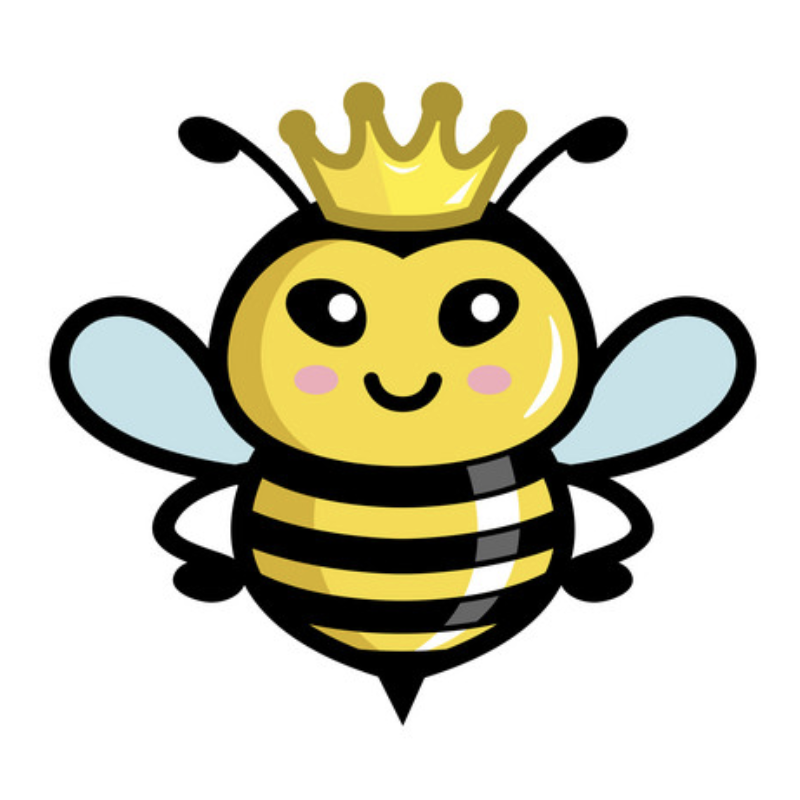
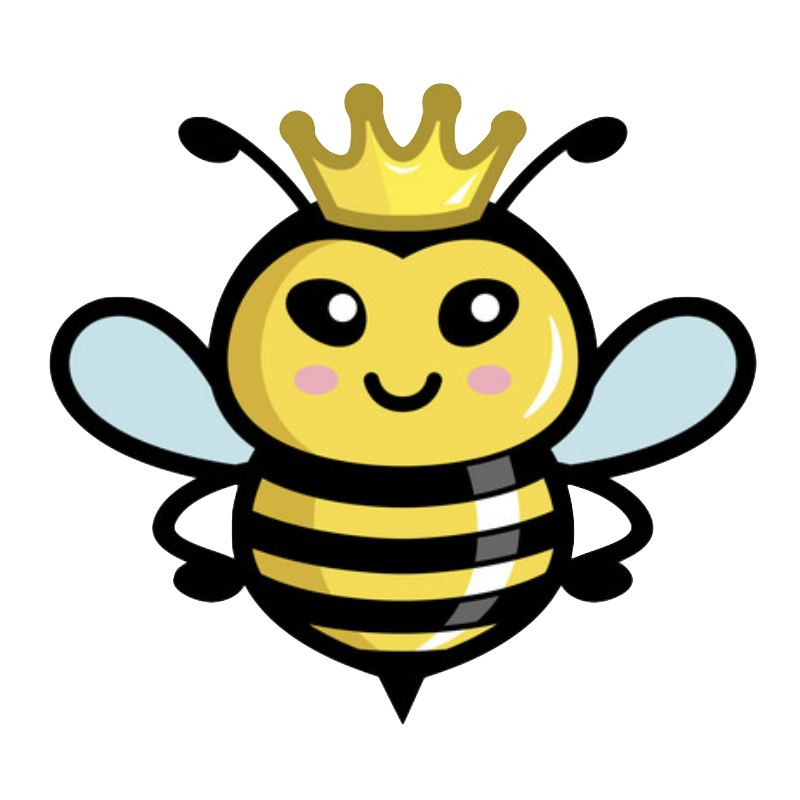
bee stats, repalces pngs with transparent ones, changes font

diff --git a/src/app/components/game/game.component.html b/src/app/components/game/game.component.html
@@ -2,14 +2,32 @@
 
     <div class="flex-parent">
         <div *ngFor="let bee of bees" class="flex-child">
-            <img [src]="bee.img" width="150px">
-            {{ bee.type }} {{ bee.hp }}
+            <div class="bee">
+                <div>
+                    <img [src]="bee.img" width="140px">
+                </div>
+                <div style="align-self: center;">
+                    <!-- Bee Icon -->
+                    <span style="font-size: 20px; font-weight: 700; display: inline-flex;">
+                        <svg xmlns="http://www.w3.org/2000/svg" x="0px" y="0px" width="30" height="30" viewBox="0 0 172 172" style=" fill:#000000;"><g fill="none" fill-rule="nonzero" stroke="none" stroke-width="1" stroke-linecap="butt" stroke-linejoin="miter" stroke-miterlimit="10" stroke-dasharray="" stroke-dashoffset="0" font-family="none" font-weight="none" font-size="none" text-anchor="none" style="mix-blend-mode: normal"><path d="M0,172v-172h172v172z" fill="none"></path><g fill="#000000"><path d="M71.05078,15.00521l-13.10156,5.82292l10.65202,23.97754c-2.55393,3.53587 -4.10124,7.8432 -4.10124,12.52767c0,0.56591 0.12481,1.09666 0.16797,1.65169c-8.48673,-4.4331 -20.00401,-8.81836 -32.41797,-8.81836c-9.89717,0 -17.91667,8.0195 -17.91667,17.91667c0,9.89717 8.0195,17.91667 17.91667,17.91667c8.4608,0 16.41785,-2.09932 23.37565,-4.80111c-1.64597,3.72098 -3.03586,7.68341 -3.94727,11.96777h68.64323c-0.91141,-4.28436 -2.3013,-8.24679 -3.94726,-11.96777c6.95781,2.70179 14.91485,4.80111 23.37565,4.80111c9.89717,0 17.91667,-8.0195 17.91667,-17.91667c0,-9.89717 -8.0195,-17.91667 -17.91667,-17.91667c-12.41396,0 -23.93123,4.38526 -32.41797,8.81836c0.04316,-0.55504 0.16797,-1.08579 0.16797,-1.65169c0,-4.68447 -1.5473,-8.9918 -4.10124,-12.52767l10.65202,-23.97754l-13.10156,-5.82292l-9.58822,21.58398c-1.72444,-0.44732 -3.49876,-0.75586 -5.361,-0.75586c-1.86224,0 -3.63657,0.30854 -5.361,0.75586zM50.16667,107.5c0,4.98083 0.54422,9.78967 1.51172,14.33333h68.64323c0.96751,-4.54367 1.51172,-9.3525 1.51172,-14.33333zM56.61947,136.16667c6.47867,12.986 17.21153,21.5 29.38053,21.5c12.169,0 22.90186,-8.514 29.38053,-21.5z"></path></g></g></svg>
+                        <span style="margin-left: 5px;">{{ bee.type | titlecase }}</span>
+                    </span>
+                    <br> 
+                    <span style="font-size: 12px; margin-left: 36px;"> {{ bee.type | titlecase }} stats:</span>
+                    <br>
+                    <!-- green full heart -->
+                    <div style="margin-left: 36px;">
+                        <span style="display: inline-flex;">
+                            <svg xmlns="http://www.w3.org/2000/svg" x="0px" y="0px" width="24" height="24" viewBox="0 0 172 172" style=" fill:#000000;"><g fill="none" fill-rule="nonzero" stroke="none" stroke-width="1" stroke-linecap="butt" stroke-linejoin="miter" stroke-miterlimit="10" stroke-dasharray="" stroke-dashoffset="0" font-family="none" font-weight="none" font-size="none" text-anchor="none" style="mix-blend-mode: normal"><path d="M0,172v-172h172v172z" fill="none"></path><g fill="#2ecc71"><path d="M118.25,21.5c-20.7475,0 -32.25,14.97833 -32.25,14.97833c0,0 -11.5025,-14.97833 -32.25,-14.97833c-21.77233,0 -39.41667,17.64433 -39.41667,39.41667c0,29.89217 35.20267,58.85983 45.01383,68.01167c11.30183,10.535 26.65283,24.08 26.65283,24.08c0,0 15.351,-13.545 26.65283,-24.08c9.81117,-9.15183 45.01383,-38.1195 45.01383,-68.01167c0,-21.77233 -17.64433,-39.41667 -39.41667,-39.41667z"></path></g></g></svg>
+                            <span style="margin-left: 5px; color: #2ecc71"><strong>{{ bee.hp }}</strong></span>
+                        </span>
+                    </div>
+                </div>
+            </div>
         </div>
     </div>
 
-    <!-- green full heart -->
-    <svg xmlns="http://www.w3.org/2000/svg" x="0px" y="0px" width="48" height="48" viewBox="0 0 172 172" style=" fill:#000000;"><g fill="none" fill-rule="nonzero" stroke="none" stroke-width="1" stroke-linecap="butt" stroke-linejoin="miter" stroke-miterlimit="10" stroke-dasharray="" stroke-dashoffset="0" font-family="none" font-weight="none" font-size="none" text-anchor="none" style="mix-blend-mode: normal"><path d="M0,172v-172h172v172z" fill="none"></path><g fill="#2ecc71"><path d="M118.25,21.5c-20.7475,0 -32.25,14.97833 -32.25,14.97833c0,0 -11.5025,-14.97833 -32.25,-14.97833c-21.77233,0 -39.41667,17.64433 -39.41667,39.41667c0,29.89217 35.20267,58.85983 45.01383,68.01167c11.30183,10.535 26.65283,24.08 26.65283,24.08c0,0 15.351,-13.545 26.65283,-24.08c9.81117,-9.15183 45.01383,-38.1195 45.01383,-68.01167c0,-21.77233 -17.64433,-39.41667 -39.41667,-39.41667z"></path></g></g></svg>
-
+    
     <!-- yellow full heart -->
     <svg xmlns="http://www.w3.org/2000/svg" x="0px" y="0px" width="48" height="48" viewBox="0 0 172 172" style=" fill:#000000;"><g fill="none" fill-rule="nonzero" stroke="none" stroke-width="1" stroke-linecap="butt" stroke-linejoin="miter" stroke-miterlimit="10" stroke-dasharray="" stroke-dashoffset="0" font-family="none" font-weight="none" font-size="none" text-anchor="none" style="mix-blend-mode: normal"><path d="M0,172v-172h172v172z" fill="none"></path><g fill="#f1c40f"><path d="M118.25,21.5c-20.7475,0 -32.25,14.97833 -32.25,14.97833c0,0 -11.5025,-14.97833 -32.25,-14.97833c-21.77233,0 -39.41667,17.64433 -39.41667,39.41667c0,29.89217 35.20267,58.85983 45.01383,68.01167c11.30183,10.535 26.65283,24.08 26.65283,24.08c0,0 15.351,-13.545 26.65283,-24.08c9.81117,-9.15183 45.01383,-38.1195 45.01383,-68.01167c0,-21.77233 -17.64433,-39.41667 -39.41667,-39.41667z"></path></g></g></svg>
 
@@ -28,12 +46,7 @@
     <!-- sword for damage -->
     <svg xmlns="http://www.w3.org/2000/svg" x="0px" y="0px" width="48" height="48" viewBox="0 0 172 172" style=" fill:#000000;"><g fill="none" fill-rule="nonzero" stroke="none" stroke-width="1" stroke-linecap="butt" stroke-linejoin="miter" stroke-miterlimit="10" stroke-dasharray="" stroke-dashoffset="0" font-family="none" font-weight="none" font-size="none" text-anchor="none" style="mix-blend-mode: normal"><path d="M0,172v-172h172v172z" fill="none"></path><g fill="#e67e22"><path d="M157.66667,14.33333l-34.48958,2.01563l-66.96354,73.45833l-8.51042,-8.51042l-10.30208,10.30208l11.42188,11.42188l-19.93229,23.51563l-4.70312,-4.70312l-10.07812,10.07813l25.97917,25.97917l10.07813,-10.07812l-4.70312,-4.70312l23.51563,-19.93229l11.42188,11.42188l10.30208,-10.30208l-8.51042,-8.51042l73.45833,-66.96354zM142.4375,29.5625l-0.67187,12.54167l-69.65104,63.38021l-5.59896,-5.59896l63.38021,-69.65104z"></path></g></g></svg>
     
-    <!-- bee -->
-    <svg xmlns="http://www.w3.org/2000/svg" x="0px" y="0px" width="48" height="48" viewBox="0 0 172 172" style=" fill:#000000;"><g fill="none" fill-rule="nonzero" stroke="none" stroke-width="1" stroke-linecap="butt" stroke-linejoin="miter" stroke-miterlimit="10" stroke-dasharray="" stroke-dashoffset="0" font-family="none" font-weight="none" font-size="none" text-anchor="none" style="mix-blend-mode: normal"><path d="M0,172v-172h172v172z" fill="none"></path><g fill="#000000"><path d="M71.05078,15.00521l-13.10156,5.82292l10.65202,23.97754c-2.55393,3.53587 -4.10124,7.8432 -4.10124,12.52767c0,0.56591 0.12481,1.09666 0.16797,1.65169c-8.48673,-4.4331 -20.00401,-8.81836 -32.41797,-8.81836c-9.89717,0 -17.91667,8.0195 -17.91667,17.91667c0,9.89717 8.0195,17.91667 17.91667,17.91667c8.4608,0 16.41785,-2.09932 23.37565,-4.80111c-1.64597,3.72098 -3.03586,7.68341 -3.94727,11.96777h68.64323c-0.91141,-4.28436 -2.3013,-8.24679 -3.94726,-11.96777c6.95781,2.70179 14.91485,4.80111 23.37565,4.80111c9.89717,0 17.91667,-8.0195 17.91667,-17.91667c0,-9.89717 -8.0195,-17.91667 -17.91667,-17.91667c-12.41396,0 -23.93123,4.38526 -32.41797,8.81836c0.04316,-0.55504 0.16797,-1.08579 0.16797,-1.65169c0,-4.68447 -1.5473,-8.9918 -4.10124,-12.52767l10.65202,-23.97754l-13.10156,-5.82292l-9.58822,21.58398c-1.72444,-0.44732 -3.49876,-0.75586 -5.361,-0.75586c-1.86224,0 -3.63657,0.30854 -5.361,0.75586zM50.16667,107.5c0,4.98083 0.54422,9.78967 1.51172,14.33333h68.64323c0.96751,-4.54367 1.51172,-9.3525 1.51172,-14.33333zM56.61947,136.16667c6.47867,12.986 17.21153,21.5 29.38053,21.5c12.169,0 22.90186,-8.514 29.38053,-21.5z"></path></g></g></svg>
-
+    
     <button (click)="damageRandomBee()">HIT</button>
 
-    <footer>
-        <img src="./assets/footer.png" style="width: 100vw">
-    </footer>
 </div>

diff --git a/src/index.html b/src/index.html
@@ -1,11 +1,13 @@
 <!doctype html>
-<html lang="en">
+<html lang="en" style="font-family: 'Poppins', sans-serif;">
     <head>
         <meta charset="utf-8">
         <title>Beehive</title>
         <base href="/">
         <meta name="viewport" content="width=device-width, initial-scale=1">
         <link rel="icon" type="image/x-icon" href="favicon.ico">
+        <link rel="preconnect" href="https://fonts.gstatic.com">
+        <link href="https://fonts.googleapis.com/css2?family=Poppins:wght@100;200;300;400;500;600;700;800;900&display=swap" rel="stylesheet">
     </head>
     <body style="margin: 0">
         <app-root></app-root>

diff --git a/src/app/components/game/game.component.css b/src/app/components/game/game.component.css
@@ -6,8 +6,13 @@ footer > img {
     display: flex;
     flex-flow: row wrap;
     align-items: flex-start;
+    justify-content: center;
 }
 
 .flex-child {
-    flex-basis: 150px;
+    flex-basis: 375px;
+}
+
+.bee {
+    display: flex;
 }
